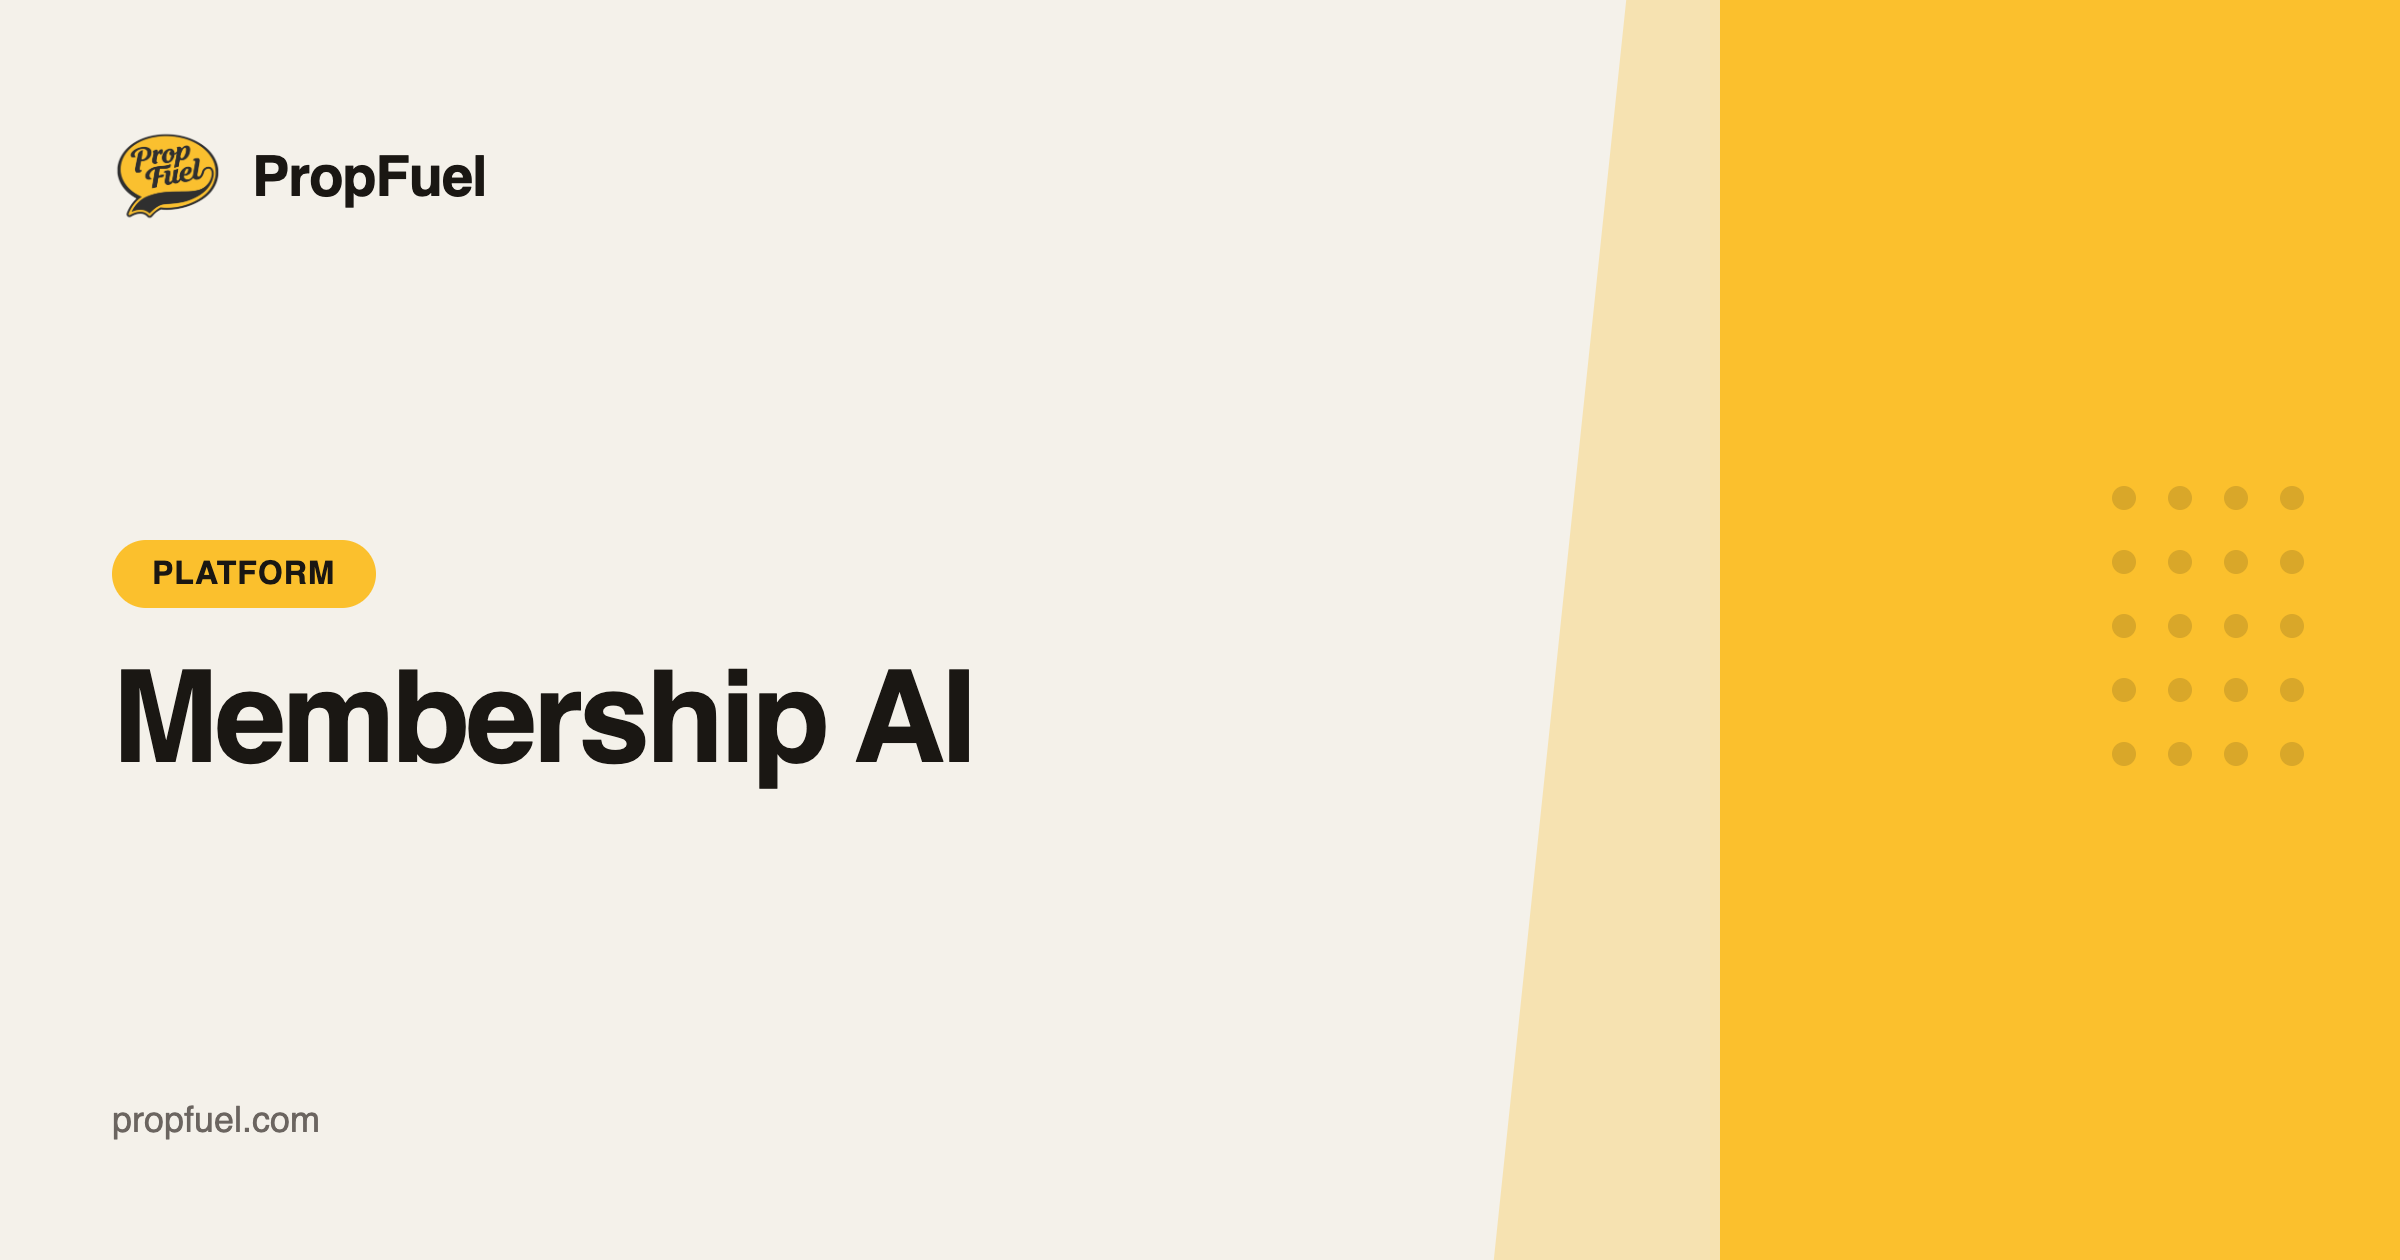
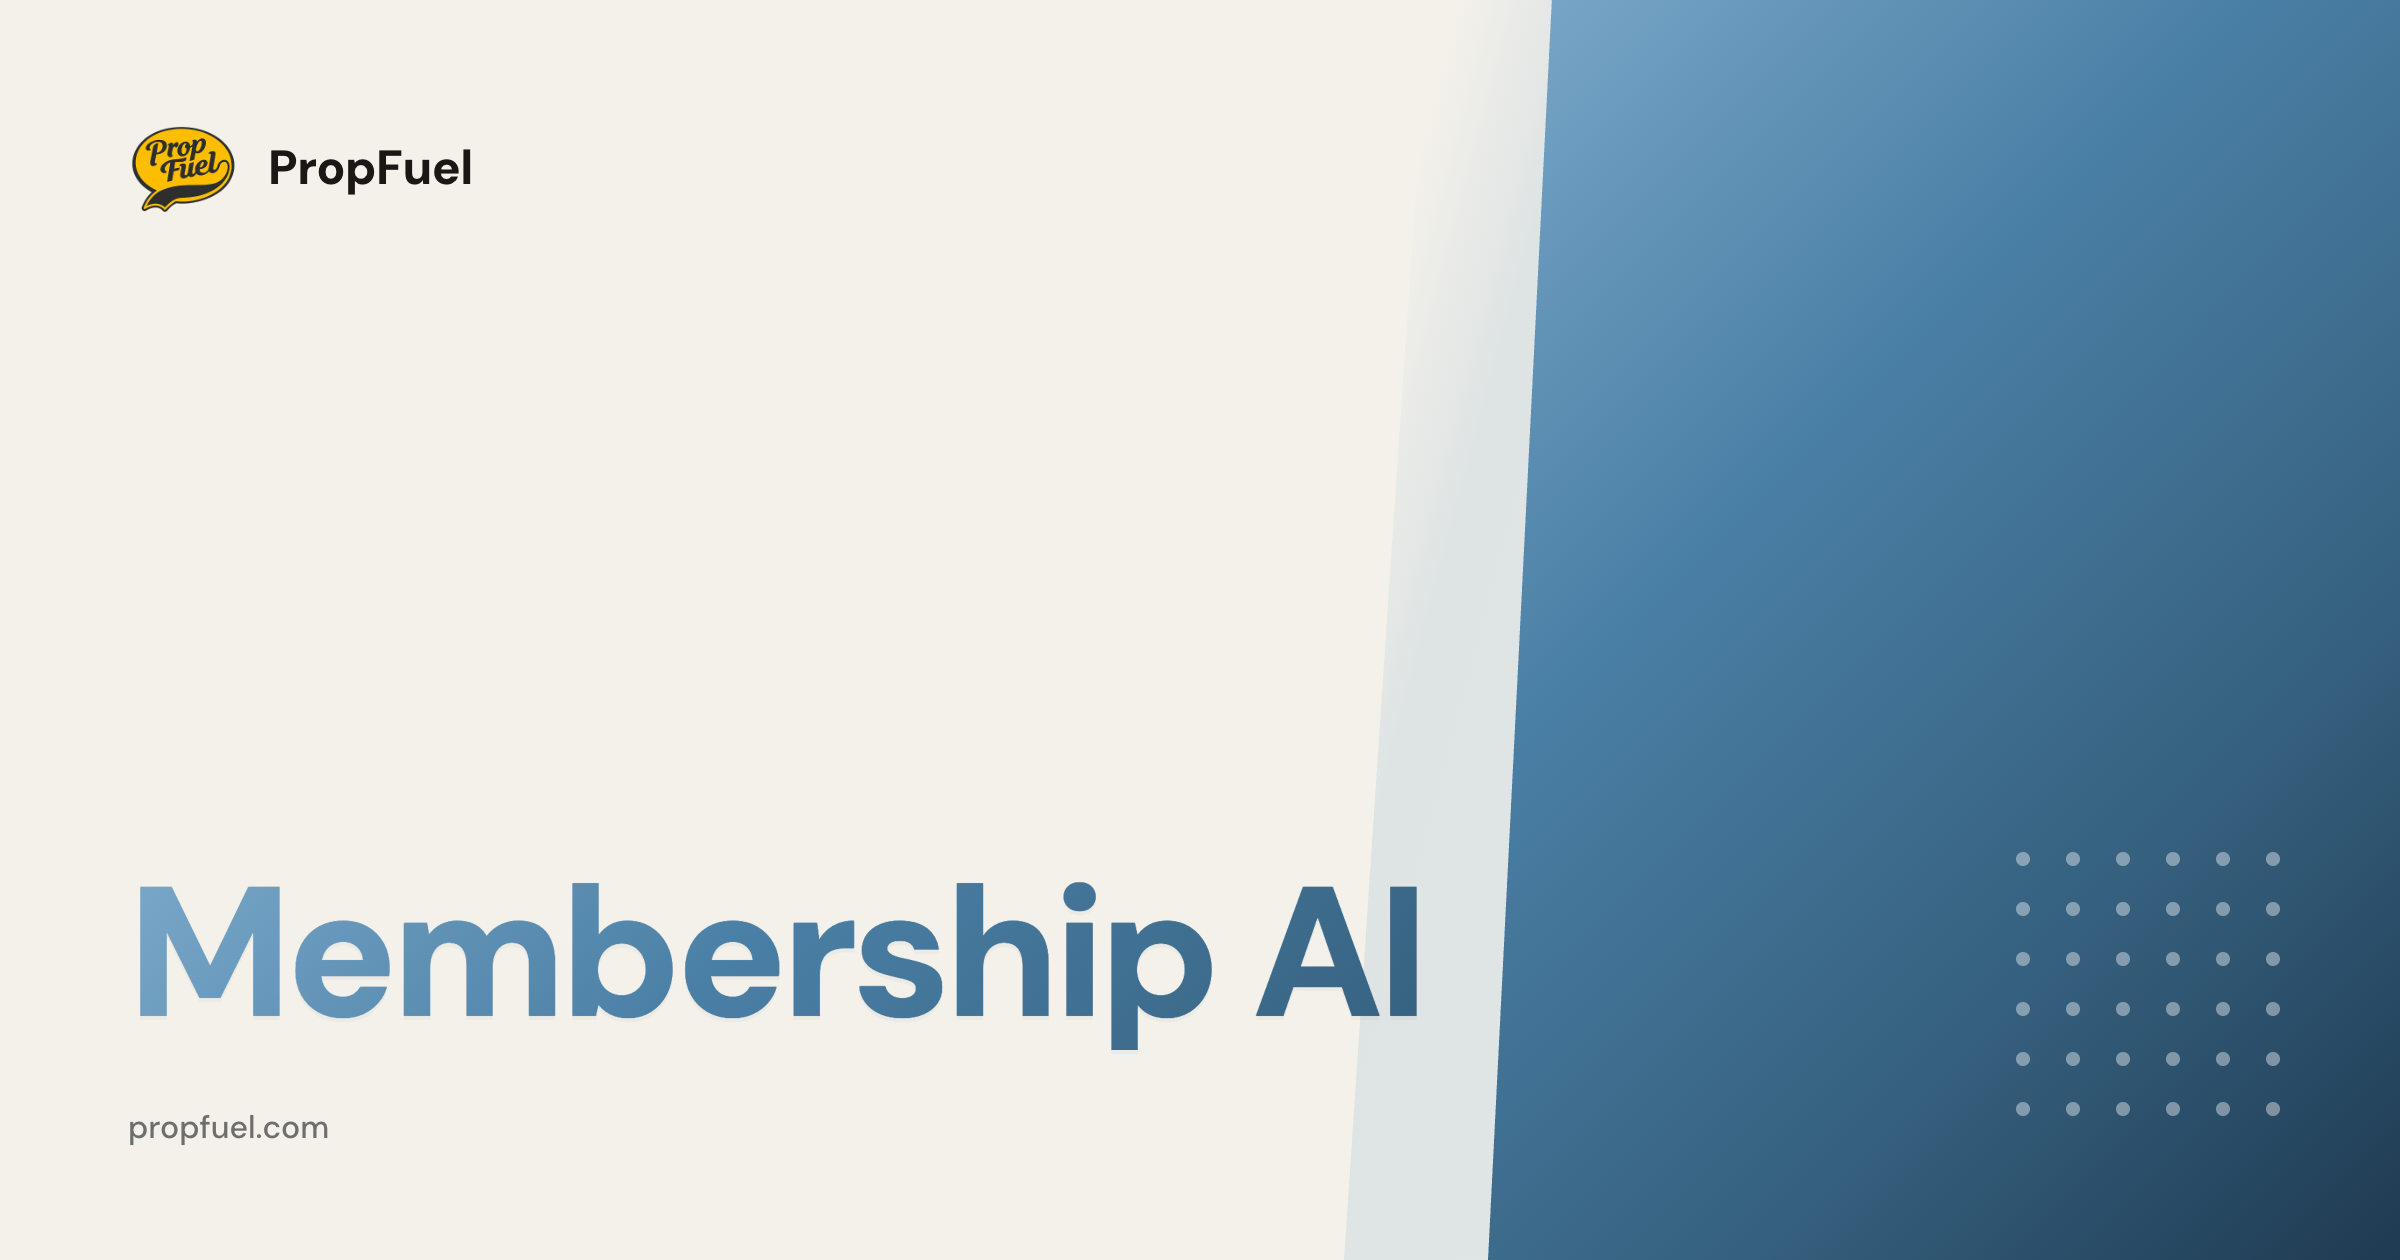
membership-ai: ship new gradient OG image
Replaces the legacy yellow OG image with a steel-blue gradient design
matching the page's hero accent (#7AA8C9 → #1F3A51). 2400×1260 retina
PNG (~540 KB), rendered via Puppeteer from qa/og-template.html.

Bundle changes:
- OG_DATA entry for /membership-ai now points at the GitHub Pages URL
  directly so JS-aware crawlers fetch the new image without going
  through the stale Webflow CDN asset.
- WF_OG_MAP entry for platform-membership-ai.png removed so the
  HTTPS-URL fall-through path is used.

Regeneration: cd qa && node render-og.mjs (template at qa/og-template.html).

NOTE: this only fixes JS-aware unfurlers. iMessage/Slack/LinkedIn
crawlers don't run JS, so a static <meta property="og:image"> tag
also needs to be pasted into the Membership AI page's "Inside <head>"
custom code in Webflow Designer (snippet provided separately).

diff --git a/qa/og-template.html b/qa/og-template.html
@@ -1,0 +1,150 @@
+<!doctype html>
+<html lang="en">
+<head>
+<meta charset="utf-8">
+<title>OG — Membership AI</title>
+<link href="https://fonts.googleapis.com/css2?family=DM+Sans:wght@400;500;600;700;800;900&display=swap" rel="stylesheet">
+<style>
+  *, *::before, *::after { box-sizing: border-box; margin: 0; padding: 0; }
+  html, body { width: 1200px; height: 630px; overflow: hidden; }
+  body {
+    font-family: 'DM Sans', -apple-system, system-ui, sans-serif;
+    background: #F4F1EA;
+    color: #1A1714;
+    position: relative;
+    -webkit-font-smoothing: antialiased;
+    text-rendering: optimizeLegibility;
+  }
+
+  /* Right gradient panel — steel-blue, diagonal soft edge */
+  .panel-soft, .panel {
+    position: absolute;
+    top: 0;
+    bottom: 0;
+    pointer-events: none;
+  }
+  .panel-soft {
+    /* pale halo wedge sitting just left of the main panel */
+    left: 56%;
+    right: 0;
+    background: linear-gradient(105deg, transparent 0%, transparent 8%, rgba(122,168,201,0.18) 18%, rgba(122,168,201,0.10) 100%);
+    clip-path: polygon(8% 0, 100% 0, 100% 100%, 0% 100%);
+  }
+  .panel {
+    left: 62%;
+    right: 0;
+    background: linear-gradient(135deg, #7AA8C9 0%, #4A7FA5 35%, #35607E 70%, #1F3A51 100%);
+    clip-path: polygon(7% 0, 100% 0, 100% 100%, 0% 100%);
+    box-shadow: -2px 0 0 0 rgba(31,58,81,0.04);
+  }
+
+  /* Dot grid sitting on top of the gradient panel, lower-right area */
+  .dots {
+    position: absolute;
+    right: 60px;
+    bottom: 72px;
+    display: grid;
+    grid-template-columns: repeat(6, 1fr);
+    gap: 18px;
+    z-index: 3;
+  }
+  .dots span {
+    width: 7px;
+    height: 7px;
+    border-radius: 50%;
+    background: rgba(255, 255, 255, 0.40);
+  }
+
+  /* Foreground content */
+  .frame {
+    position: relative;
+    z-index: 2;
+    width: 100%;
+    height: 100%;
+    padding: 56px 64px;
+    display: flex;
+    flex-direction: column;
+    justify-content: space-between;
+  }
+  .header {
+    display: flex;
+    align-items: center;
+    gap: 14px;
+  }
+  .logo {
+    width: 56px;
+    height: 56px;
+    display: block;
+  }
+  .brand {
+    font-size: 24px;
+    font-weight: 800;
+    color: #1A1714;
+    letter-spacing: -0.01em;
+    line-height: 1;
+  }
+
+  .body {
+    margin-top: auto;
+  }
+  .pill {
+    display: inline-block;
+    padding: 9px 22px 8px;
+    background: #F9A825;
+    border-radius: 100px;
+    font-size: 13px;
+    font-weight: 800;
+    color: #1A1714;
+    letter-spacing: 0.14em;
+    text-transform: uppercase;
+    margin-bottom: 28px;
+  }
+  .title {
+    font-size: 92px;
+    font-weight: 800;
+    line-height: 1.02;
+    letter-spacing: -0.030em;
+    background: linear-gradient(135deg, #7AA8C9 0%, #4A7FA5 30%, #35607E 65%, #1F3A51 100%);
+    -webkit-background-clip: text;
+    background-clip: text;
+    -webkit-text-fill-color: transparent;
+    color: transparent;
+    /* small drop-shadow to match the page's hero accent feel */
+    filter: drop-shadow(0 2px 0 rgba(31,58,81,0.04));
+  }
+  .footer {
+    font-size: 16px;
+    font-weight: 500;
+    color: #6E6E6E;
+    margin-top: 28px;
+    letter-spacing: 0;
+  }
+</style>
+</head>
+<body>
+  <div class="panel-soft"></div>
+  <div class="panel"></div>
+  <div class="dots" id="dots"></div>
+
+  <div class="frame">
+    <div class="header">
+      <img class="logo" src="https://cdn.prod.website-files.com/69ca88e6c52b04fb85f74a02/69ce6e2b73d61c0ea2f2d959_Favicon%20-%20Large.png" alt="PropFuel">
+      <span class="brand">PropFuel</span>
+    </div>
+
+    <div class="body">
+      <h1 class="title">Membership AI</h1>
+      <div class="footer">propfuel.com</div>
+    </div>
+  </div>
+
+  <script>
+    // 6x6 dot grid (36 dots)
+    var dots = document.getElementById('dots');
+    for (var i = 0; i < 36; i++) {
+      var s = document.createElement('span');
+      dots.appendChild(s);
+    }
+  </script>
+</body>
+</html>

diff --git a/js/webflow-enhancements.js b/js/webflow-enhancements.js
@@ -481,7 +481,7 @@
     '/platform/engagement': { title: 'Member Engagement Engine for Associations | PropFuel', desc: "PropFuel's Engagement Engine delivers one-question conversations via email, website, and SMS \u2014 getting real answers from members with a single tap.", ogImage: '/og-images/platform-engagement.png' },
     '/platform/website': { title: 'Website Personalization for Associations | PropFuel', desc: "PropFuel's website engagement widget asks targeted questions to site visitors, capturing intent and converting anonymous traffic into known member intelligence.", ogImage: '/og-images/platform-website.png' },
     '/integrations': { title: 'AMS & System Integrations for Associations | PropFuel', desc: 'PropFuel integrates with leading AMS platforms including iMIS, Nimble AMS, Fonteva, and Salesforce \u2014 with real-time two-way data sync and write-back.', ogImage: '/og-images/platform-integrations.png' },
-    '/membership-ai': { title: 'Membership AI \u2014 Smart Member Intelligence | PropFuel', desc: "PropFuel's Membership AI uses intelligent agents to surface insights, recommend actions, and build engagement initiatives for association staff automatically.", ogImage: '/og-images/platform-membership-ai.png' },
+    '/membership-ai': { title: 'Membership AI \u2014 Smart Member Intelligence | PropFuel', desc: "PropFuel's Membership AI uses intelligent agents to surface insights, recommend actions, and build engagement initiatives for association staff automatically.", ogImage: 'https://alexhively.github.io/propfuel-webflow-custom/og-images/platform-membership-ai.png' },
     '/use-cases/onboarding': { title: 'Automate New Member Onboarding Journeys | PropFuel', desc: "Turn new member silence into engagement. PropFuel's onboarding automation delivers personalized check-ins that drive 3x engagement in the first 60 days.", ogImage: '/og-images/use-cases-onboarding.png' },
     '/use-cases/renewals': { title: 'Membership Renewal Campaigns & Automation | PropFuel', desc: "Stop sending identical renewal reminders. PropFuel's renewal campaigns adapt to each member's response, recovering $320K+ in at-risk revenue.", ogImage: '/og-images/use-cases-renewals.png' },
     '/use-cases/win-back': { title: 'Win Back Lapsed Members with AI Campaigns | PropFuel', desc: "Re-engage lapsed members with conversations, not campaigns. PropFuel's win-back automation brings 80% back within 90 days.", ogImage: '/og-images/use-cases-win-back.png' },
@@ -524,7 +524,9 @@
     'platform-sms.png': '69ebb0b81c05c0474ef86355_platform-sms.png',
     'platform-website.png': '69ebb0b869a8d17afbfb9f7c_platform-website.png',
     'platform-integrations.png': '69ebb0b808aa0608d8bd8f09_platform-integrations.png',
-    'platform-membership-ai.png': '69ebb0b8fd7426ad0c062a4c_platform-membership-ai.png',
+    // 'platform-membership-ai.png' intentionally omitted — the new gradient OG image
+    // is hosted on GitHub Pages (see /membership-ai entry in OG_DATA) so the full
+    // HTTPS URL fall-through is used instead of the legacy Webflow CDN asset.
     'use-cases-onboarding.png': '69ebb0b808aa0608d8bd8f25_use-cases-onboarding.png',
     'use-cases-renewals.png': '69ebb0b8ea20b3efba5534b5_use-cases-renewals.png',
     'use-cases-win-back.png': '69ebb0b8308e9b8afc0577ae_use-cases-win-back.png',
